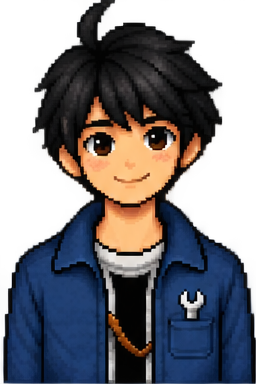
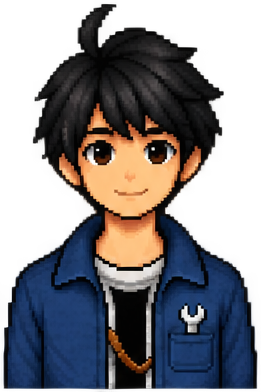
feat: 林彪悍素材替换(16表情)+子代理规范修正(主代理ds→子代理0718)

Changed region(s): [[0.0, 0.0, 1.0, 1.0], [0.25, 0.1875, 0.3125, 0.2812], [0.3125, 0.0312, 0.3438, 0.0625]]

diff --git a/AGENTS.md b/AGENTS.md
@@ -176,10 +176,12 @@ Login.unity → TitleScreen.unity → VN_Test.unity → StationSlice_V1.unity
 ### 模型选择
 | 任务类型 | 模型 | 参数 |
 |---------|------|------|
-| 编码/模型任务 | ds（默认，deepseek-v4-flash） | 不指定 model 参数 |
+| 编码/模型任务 | ds0718（`sensenova0718/deepseek-v4-flash`） | `model: "sensenova0718/deepseek-v4-flash"` |
 | 识图/视觉分析 | `xiaomi/mimo-v2.5` | `model: "xiaomi/mimo-v2.5"` |
-| ❌ 禁止使用 | `sensenova0718/deepseek-v4-flash`（0718） | 避免并发冲突 |
-| ❌ 禁止使用 | `xiaomi/mimo-v2.5-pro` | 非专用模型 |
+| ❌ 禁止使用 | 默认模型（ds=deepseek-v4-flash） | 与主代理同模型会触发并发上限 |
+
+### 原因
+主代理使用 ds（deepseek-v4-flash），子代理必须用不同的模型（ds0718），否则并发超限。
 
 ### 并发规则
 - 编码子代理最多同时 1 个
